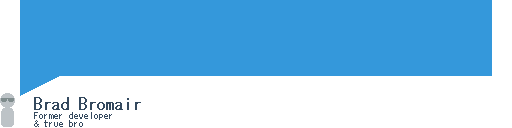
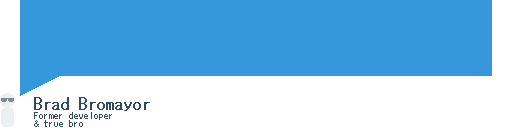
fixed brad, updated tutorial like 85%

Changed region(s): [[0.0, 0.7188, 0.0312, 1.0], [0.2188, 0.7812, 0.3125, 0.875]]

diff --git a/Game School Simulator 2015/tutorial.c b/Game School Simulator 2015/tutorial.c
@@ -132,27 +132,50 @@ void tutorialBackground_onPressed(COMPONENT *self) {
 
 void createFirstTutorial(SPACE *ui) {
   ENTITY *textBox = tutorial_createTextBox(ui);
-  comp_tutorialTextBoxLogic_pushText(textBox, "What up Bro, they told me you would be coming!\nI am Brad Bromayor, \nyour one and only advisor as you build your new game school!\n\nClick anywhere to continue.");
-  comp_tutorialTextBoxLogic_pushText(textBox, "Oh yeah, you're totally building a game school!\n\nWe got approved for the loan, \nand got this gorgeous piece of land!");
-  comp_tutorialTextBoxLogic_pushText(textBox, "Let's kick things off by buying a Lobby.\n\nClick the Build Button to continue.\n(or press the Space button)");
+  /////////////////////////////////////////////                                                         ////
+  comp_tutorialTextBoxLogic_pushText(textBox, "What up bro? I heard you'd be coming!\n"
+                                              "I'm Brad Bromayor, here to help you out on your journey\n"
+                                              "to make the best game school in the world!\n"
+                                              "                             (CLICK ANYWHERE TO CONTINUE)");
+  /////////////////////////////////////////////                                                         ////
+  comp_tutorialTextBoxLogic_pushText(textBox, "I already talked to the dudes at the bank; your loan got\n"
+                                              "approved and we got this totally rad plot of land!\n"
+                                              "Let's get started!");
+  /////////////////////////////////////////////                                                         ////
+  comp_tutorialTextBoxLogic_pushText(textBox, "First things first! You need a lobby to build your school\n"
+                                              "around. Let's build one!\n"
+                                              "Click the Build button (the hammer icon at the top of\n"
+                                              "the screen) or press SPACEBAR to open the Build Menu!");
   comp_tutorialTextBoxLogic_nextText(textBox);
   tutorial_disableUIButtons(ui);
   tutorial_enableBuildButtons(ui);
-  sound_playSound(&ui->game->systems.sound, "dudebro");
+  //sound_playSound(&ui->game->systems.sound, "dudebro");
 }
 
 void createFirstTutorialPartTwo(SPACE *ui) {
   ENTITY *textBox = tutorial_createTextBox(ui);
-  comp_tutorialTextBoxLogic_pushText(textBox, "Nice, Bro!\n\nHere you can see the rooms you are able to create!");
-  comp_tutorialTextBoxLogic_pushText(textBox, "The highlighted buttons indicate which rooms\nyou can create right now!\n\nLet's build a lobby, shall we?");
+  /////////////////////////////////////////////                                                         ////
+  comp_tutorialTextBoxLogic_pushText(textBox, "Nice, bro!\n"
+                                              "This is where you can see all the rooms you can build!\n");
+  /////////////////////////////////////////////                                                         ////
+  comp_tutorialTextBoxLogic_pushText(textBox, "The rooms that you have unlocked AND have enough money\n"
+                                              "for are highlighted, like the Lobby is now.");
+  /////////////////////////////////////////////                                                         ////
+  comp_tutorialTextBoxLogic_pushText(textBox, "So hey, let's build a Lobby! Click on the Lobby button\n"
+                                              "to start making the game school of your dreams!");
   comp_tutorialTextBoxLogic_nextText(textBox);
 }
 
 
 void createSecondTutorial(SPACE *ui) {
   ENTITY *textBox = tutorial_createTextBox(ui);
-  comp_tutorialTextBoxLogic_pushText(textBox, "Great! Whenever you try to build a new room you\nwill see the available build locations on screen.");
-  comp_tutorialTextBoxLogic_pushText(textBox, "All you have to do is to click on the one you want to build at.\nClick on the available slot to continue.");
+  /////////////////////////////////////////////                                                         ////
+  comp_tutorialTextBoxLogic_pushText(textBox, "Rad!\n"
+                                              "Whenever you go to build a new room, the different\n"
+                                              "possible build locations will be shown on the screen.");
+  /////////////////////////////////////////////                                                         ////
+  comp_tutorialTextBoxLogic_pushText(textBox, "All you gotta do is pick one and click one, and the room\n"
+                                              "will be built there immediately!");
   comp_tutorialTextBoxLogic_nextText(textBox);
   tutorial_disableUIButtons(ui);
   tutorial_enableBuildButtons(ui);
@@ -160,8 +183,15 @@ void createSecondTutorial(SPACE *ui) {
 
 void createThirdTutorial(SPACE *ui) {
   ENTITY *textBox = tutorial_createTextBox(ui);
-  comp_tutorialTextBoxLogic_pushText(textBox, "I feel like we are forgeting something...\nRight! Students!! This is a game school after all!\nThat means we need a classroom.");
-  comp_tutorialTextBoxLogic_pushText(textBox, "Let's open up that Build menu again,\nand a get a classroom in!");
+  /////////////////////////////////////////////                                                         ////
+  comp_tutorialTextBoxLogic_pushText(textBox, "Right on!\n"
+                                              "Lobbies are pretty chill, but I feel like our game\n"
+                                              "school is missing something still...");
+  comp_tutorialTextBoxLogic_pushText(textBox, "Oh, right, students! Game schools are nothing without\n"
+                                              "their students! And students need classrooms so they\n"
+                                              "can, like, go to class and stuff!");
+  comp_tutorialTextBoxLogic_pushText(textBox, "Open up the Build menu again, and build a Classroom\n"
+                                              "wherever you want!");
   comp_tutorialTextBoxLogic_nextText(textBox);
   tutorial_disableUIButtons(ui);
   tutorial_enableBuildButtons(ui);
@@ -170,8 +200,14 @@ void createThirdTutorial(SPACE *ui) {
 void createFourthTutorial(SPACE *ui) {
   CDATA_MOUSEBOX *manageBox = (CDATA_MOUSEBOX *)entity_getComponentData((ENTITY *)space_getEntity(ui, "manage_button"), COMP_MOUSEBOX);
   ENTITY *textBox = tutorial_createTextBox(ui);
-  comp_tutorialTextBoxLogic_pushText(textBox, "This looks great!\n\nWell, I think it's about time we let our\nfirst students in, don't you?");
-  comp_tutorialTextBoxLogic_pushText(textBox, "Let's check the current status of incoming students!\n\nClick the Management Screen Button above, man.");
+  /////////////////////////////////////////////                                                         ////
+  comp_tutorialTextBoxLogic_pushText(textBox, "Dude, this is like, a real school now!\n"
+                                              "Well, almost. Now we gotta wait for some students to\n"
+                                              "enroll.");
+  comp_tutorialTextBoxLogic_pushText(textBox, "To check on how your school is doing, including stuff\n"
+                                              "like the number of incoming students, you need to check\n"
+                                              "the Management screen. Click the pencil button above, or\n"
+                                              "press M on your keyboard!");
   comp_tutorialTextBoxLogic_nextText(textBox);
   tutorial_disableUIButtons(ui);
   tutorial_disableBuildButtons(ui);

diff --git a/Game School Simulator 2015/tutorialtextboxlogic.c b/Game School Simulator 2015/tutorialtextboxlogic.c
@@ -37,11 +37,11 @@ void comp_tutorialTextBoxLogic_initialize(COMPONENT *self, void *event) {
   // box sprite
   ENTITY *whiteBox = space_addEntityAtPosition(self->owner->space, arch_brad, "textboxbackground", &pos);
   entity_attach(whiteBox, self->owner);
-  vec3_set(&pos, -228.0f, 45.0f, 0);
+  vec3_set(&pos, -228.0f, 47.0f, 0);
 
   // text
   color = colors[C_WHITE_LIGHT];
-  data->text = genericText_create(self->owner->space, &pos, "textboxtext", "fonts/gothic/12", "", &color, TEXTALIGN_LEFT, TEXTALIGN_TOP);
+  data->text = genericText_create(self->owner->space, &pos, "textboxtext", "fonts/gothic/16", "", &color, TEXTALIGN_LEFT, TEXTALIGN_TOP);
   entity_attach(data->text, self->owner);
   comp_tutorialTextBoxLogic_pushText(self->owner, "");
   data->currentText = data->textList->first;

diff --git a/Game School Simulator 2015/inspectionscreenlogic.c b/Game School Simulator 2015/inspectionscreenlogic.c
@@ -108,6 +108,7 @@ void comp_inspectionScreenLogic_logicUpdate(COMPONENT *self, void *event) {
         genericText_setText(comData->studentGraduation, comData->expectedGraduationYear);
         genericText_setText(comData->studentMotivation, comData->motivation);
         genericText_setText(comData->studentTrait, comData->trait);
+        //genericText_setText(comData->studentTrait, "BUTTS");
         comData->triggered = false;
       }
     }
